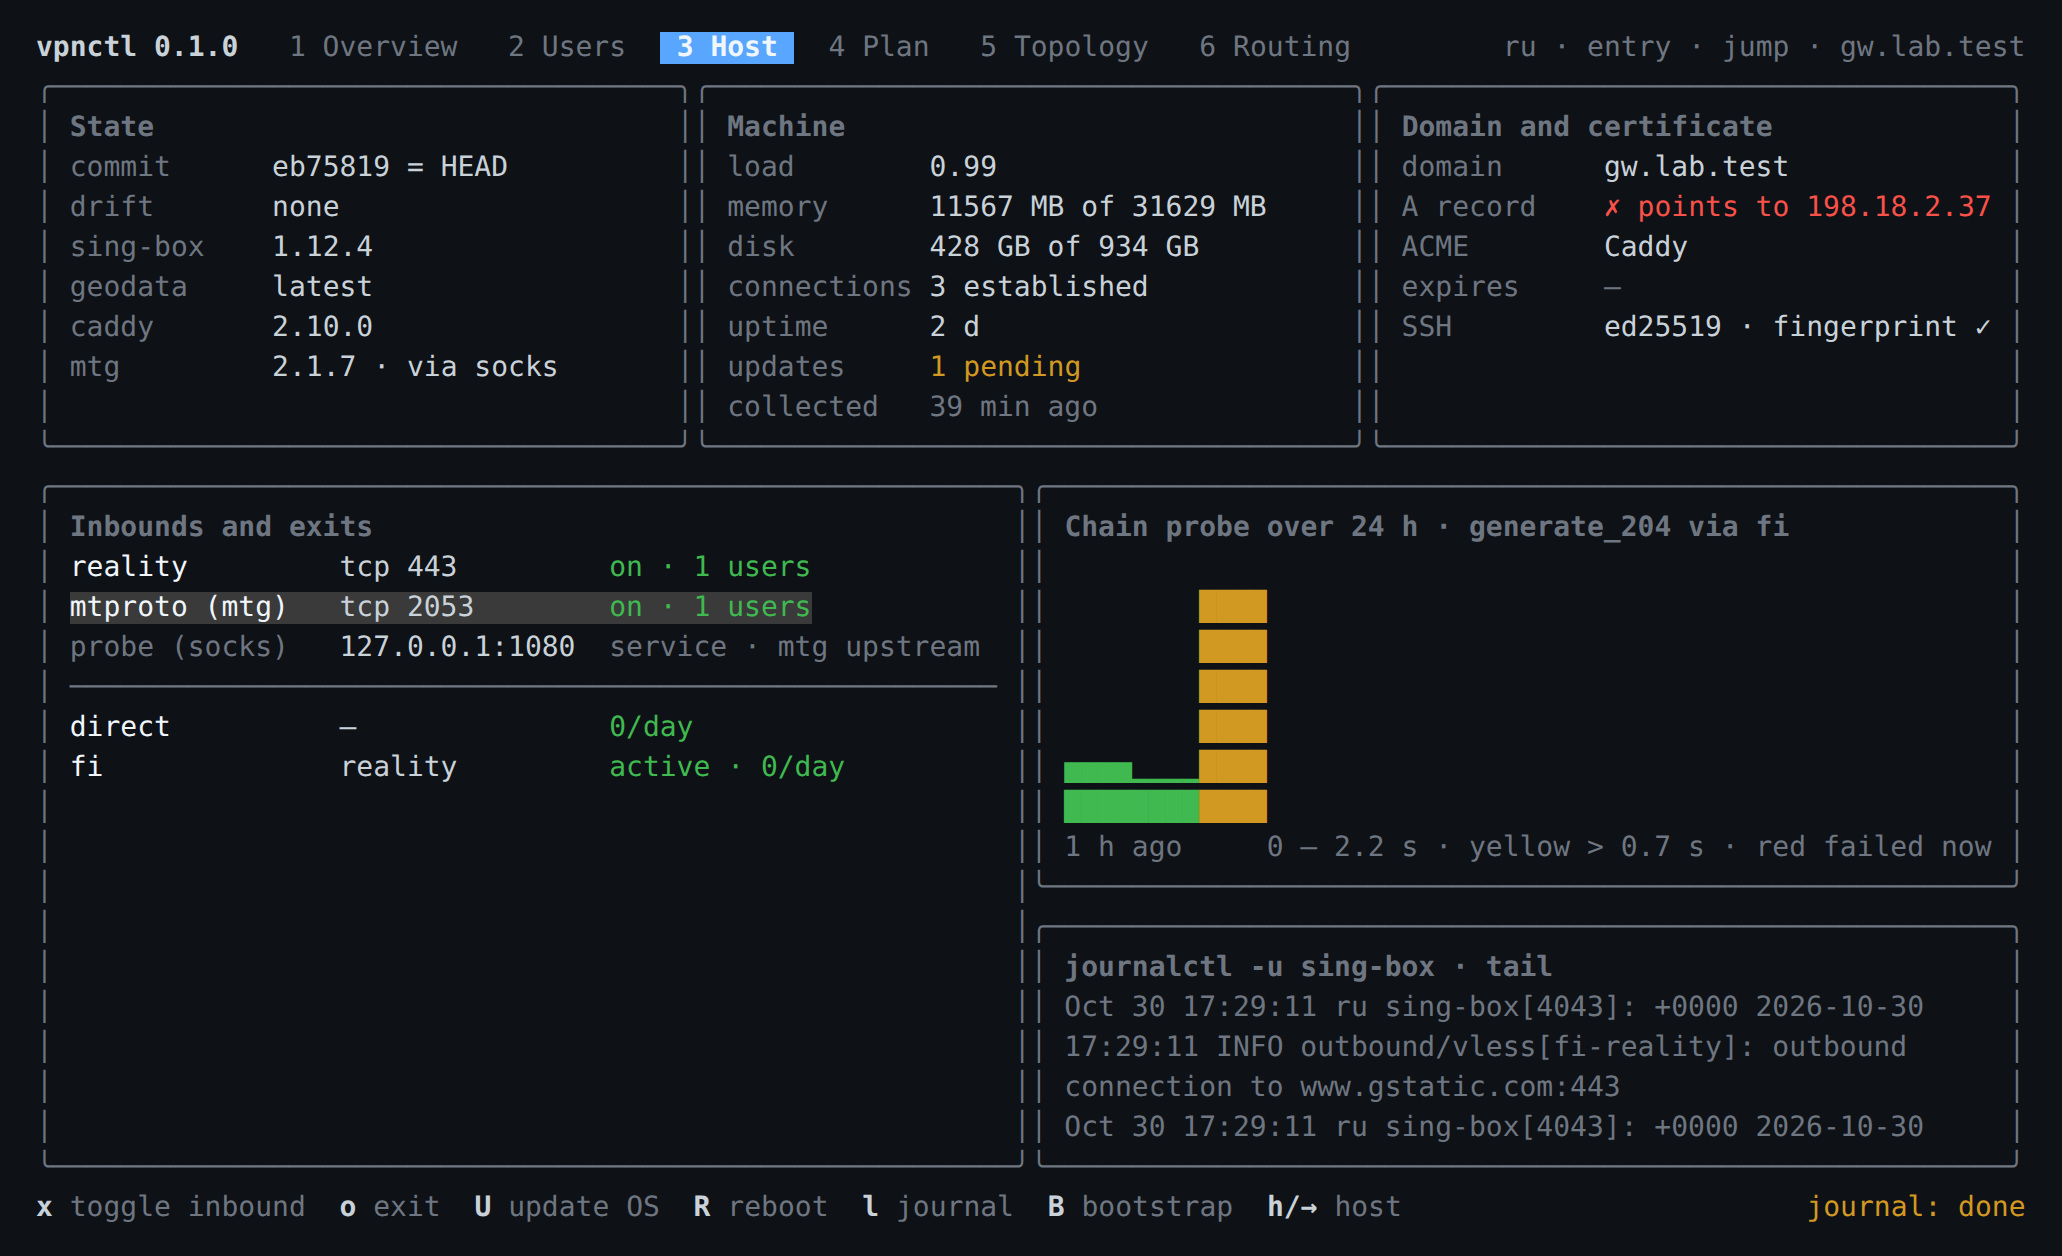
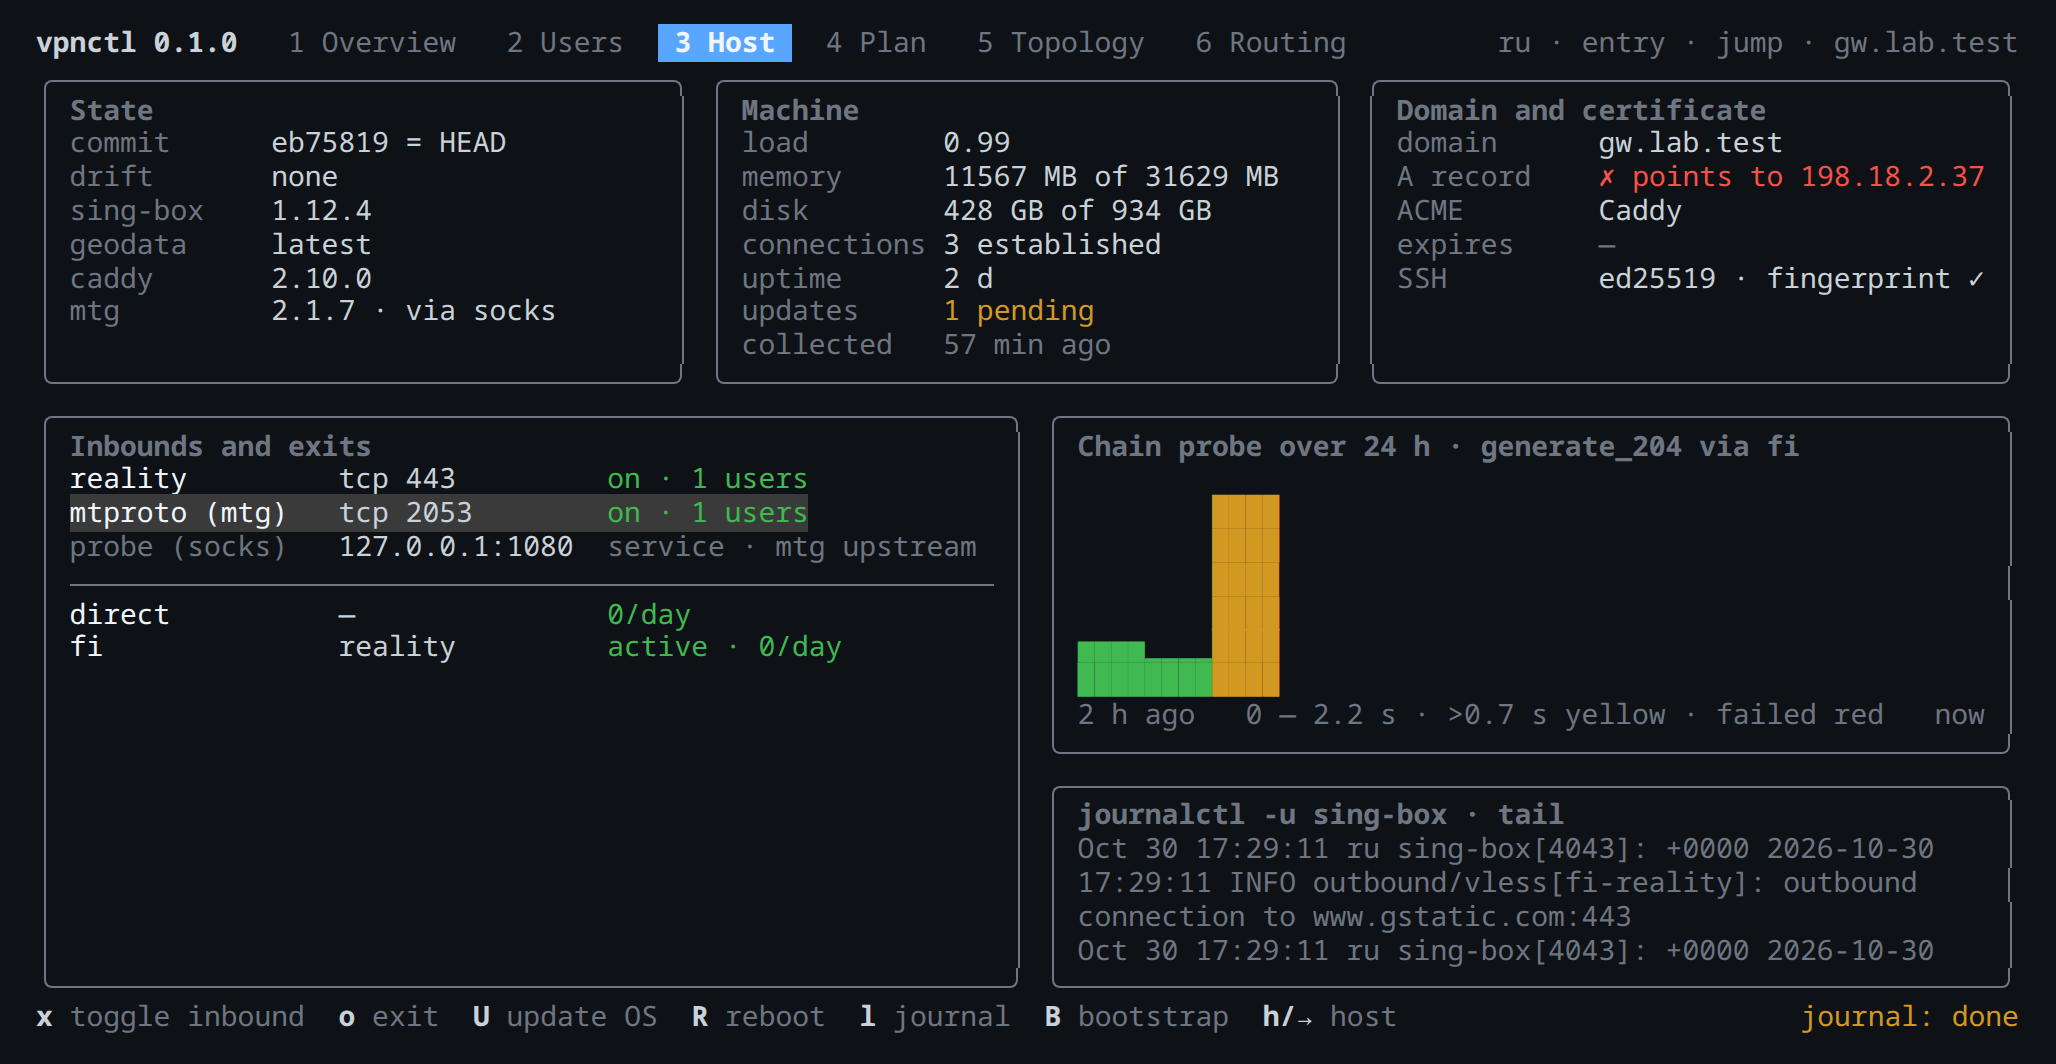
tui: solid frames and bars in screenshots, gaps between panels

diff --git a/src/tui/screens.rs b/src/tui/screens.rs
@@ -334,6 +334,7 @@ impl App {
 
         let [left, right] =
             Layout::horizontal([Constraint::Percentage(50), Constraint::Percentage(50)])
+                .spacing(1)
                 .areas(bottom);
         let kw = 22;
         let mut lines = vec![];
@@ -459,6 +460,7 @@ impl App {
     fn users(&mut self, f: &mut Frame, area: Rect) {
         let [left, right] =
             Layout::horizontal([Constraint::Percentage(60), Constraint::Percentage(40)])
+                .spacing(1)
                 .areas(area);
         let table_rows = self.user_table();
         self.sel[1] = step(self.sel[1], table_rows.len(), 0);
@@ -652,6 +654,7 @@ impl App {
             Constraint::Percentage(34),
             Constraint::Percentage(33),
         ])
+        .spacing(1)
         .areas(top);
         f.render_widget(titled("State", kv(&state, 12)), a);
         f.render_widget(titled("Machine", kv(&machine, 12)), b);
@@ -659,6 +662,7 @@ impl App {
 
         let [left, right] =
             Layout::horizontal([Constraint::Percentage(50), Constraint::Percentage(50)])
+                .spacing(1)
                 .areas(bottom);
         let (inb, exits) = self.host_rows3();
         self.sel[2] = step(self.sel[2], inb.len() + exits.len(), 0);
@@ -740,19 +744,15 @@ impl App {
                 Rect::new(inner.x, inner.y + 2, inner.width, 6),
             );
             let axis = Rect::new(inner.x, inner.y + 8, inner.width, 1);
-            f.render_widget(
-                Line::from(vec![
-                    dim(format!("{:<12}", ago(data[0].0, self.now))),
-                    dim(format!(
-                        "0 — {:.1} s · yellow > {:.1} s · red failed",
-                        max as f64 / 1000.0,
-                        PROBE_SLOW_MS as f64 / 1000.0
-                    )),
-                ]),
-                axis,
+            let left = format!("{:<10}", ago(data[0].0, self.now));
+            let mid = format!(
+                "0 — {:.1} s · >{:.1} s yellow · failed red",
+                max as f64 / 1000.0,
+                PROBE_SLOW_MS as f64 / 1000.0
             );
+            let pad = (inner.width as usize).saturating_sub(left.len() + mid.chars().count() + 3);
             f.render_widget(
-                Paragraph::new(Line::from(dim("now"))).alignment(Alignment::Right),
+                Line::from(dim(format!("{left}{mid}{}now", " ".repeat(pad.max(1))))),
                 axis,
             );
         }
@@ -776,6 +776,7 @@ impl App {
     fn plan(&mut self, f: &mut Frame, area: Rect) {
         let [left, right] =
             Layout::horizontal([Constraint::Percentage(50), Constraint::Percentage(50)])
+                .spacing(1)
                 .areas(area);
         let rows = self.plan_rows();
         self.plan_sel = step(self.plan_sel, rows.len(), 0);
@@ -1109,6 +1110,7 @@ impl App {
         };
         let [left, right] =
             Layout::horizontal([Constraint::Percentage(64), Constraint::Percentage(36)])
+                .spacing(1)
                 .areas(area);
         let sets = self.st.sets.len() as u16;
         let [rules_a, dns_a] =

diff --git a/src/tui/ui.rs b/src/tui/ui.rs
@@ -110,7 +110,17 @@ pub fn widths(header: &[&str], rows: &[Vec<String>]) -> Vec<Constraint> {
 }
 
 /// Table with a dark header line, selected row on a dark background with a blue `▎` marker.
-pub fn table<'a>(header: &[&'a str], rows: Vec<TRow<'a>>, widths: Vec<Constraint>) -> Table<'a> {
+pub fn table<'a>(
+    header: &[&'a str],
+    rows: Vec<TRow<'a>>,
+    mut widths: Vec<Constraint>,
+) -> Table<'a> {
+    // the last column takes the rest so the header and selection bands reach the right border
+    if let Some(last) = widths.last_mut()
+        && let Constraint::Length(n) = *last
+    {
+        *last = Constraint::Min(n);
+    }
     Table::new(rows, widths)
         .header(
             TRow::new(header.iter().map(|h| Cell::from(*h)))
